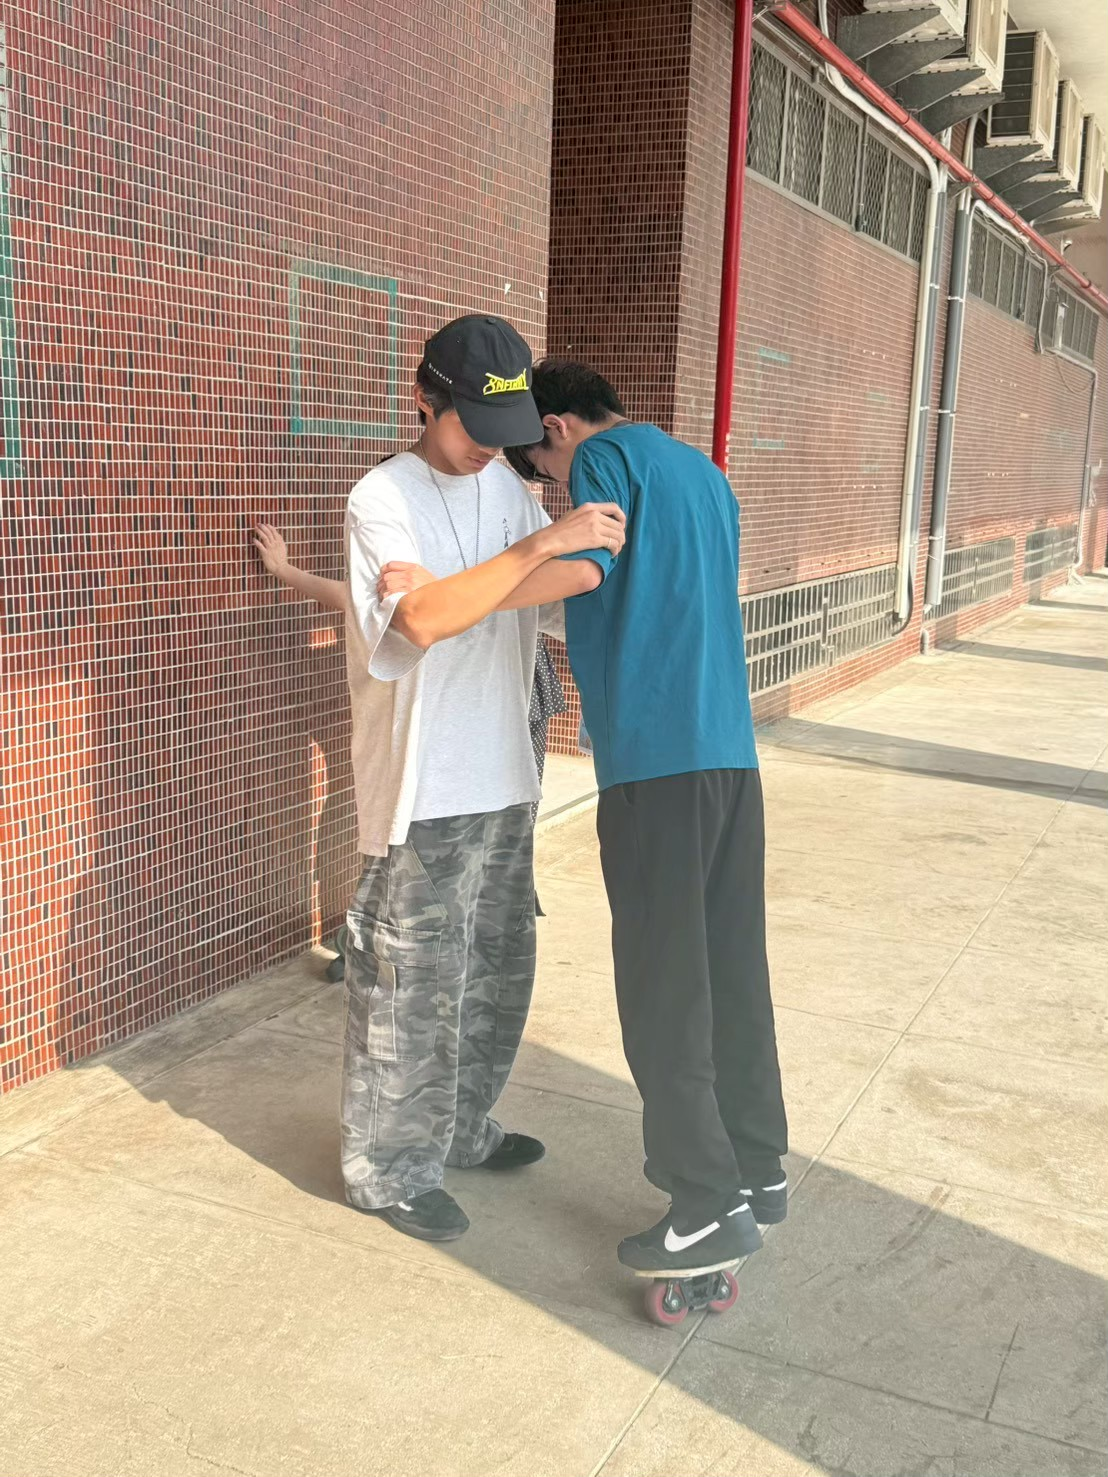
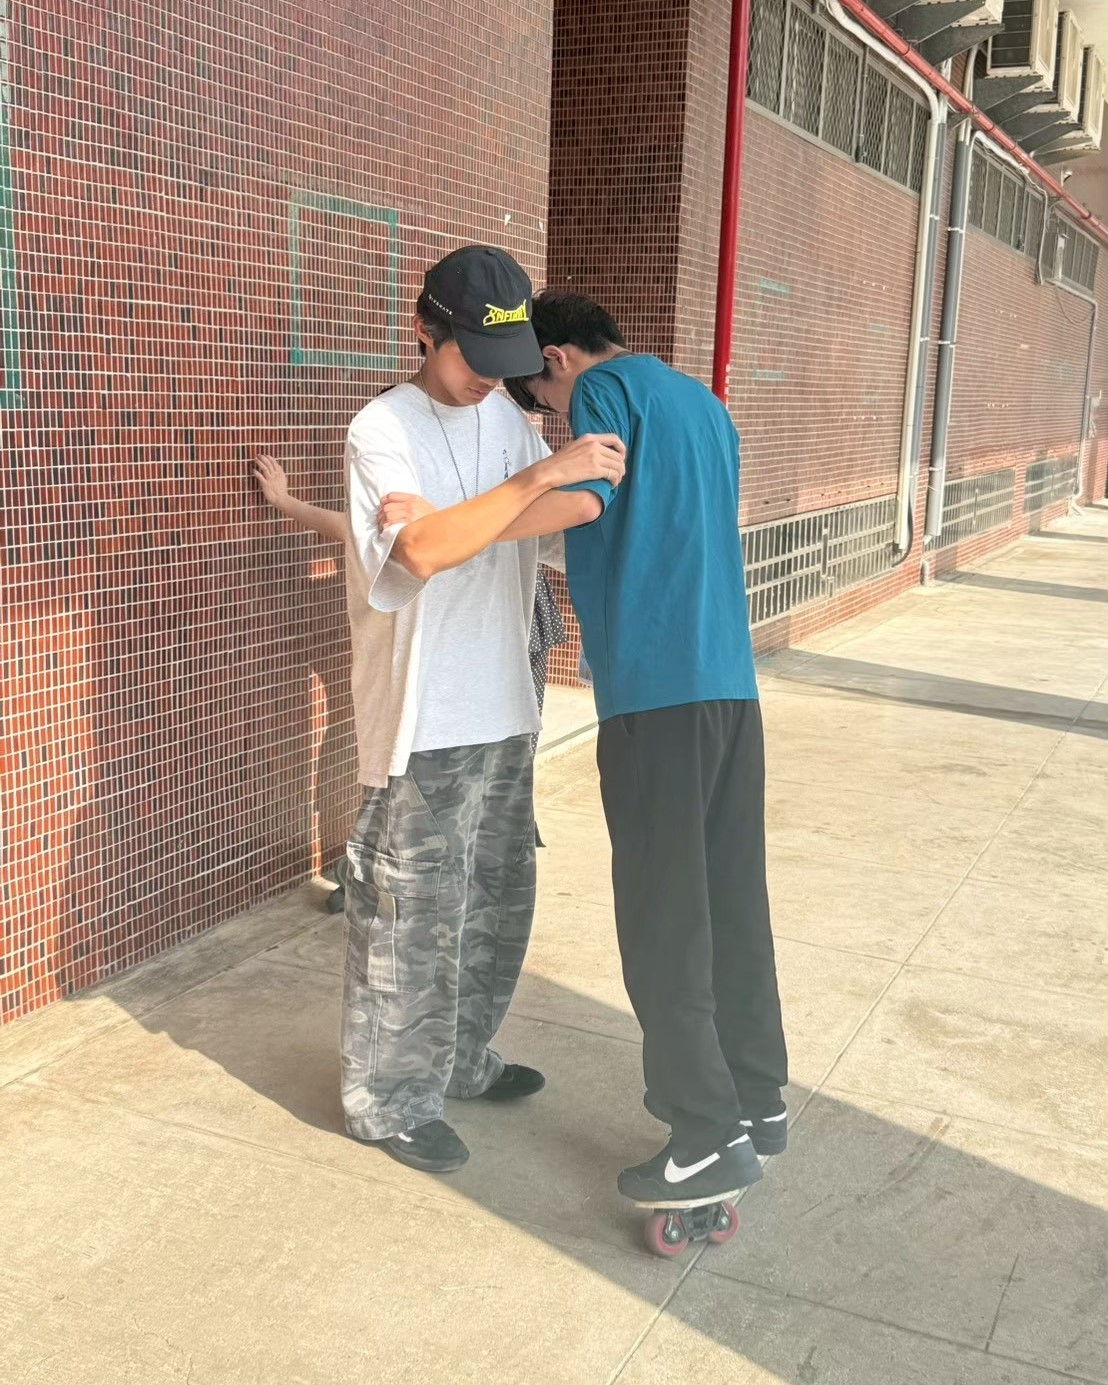
修改home和about電腦css介面完成

diff --git a/index.html b/index.html
@@ -20,7 +20,6 @@
             <nav>
 
                 <a href="#home">首頁</a>
-                <a href="#freeskates">飄移板介紹</a>
                 <a href="#about">關於我</a>
                 <a href="#courses">課程介紹</a>
                 <a href="#price">課程價格</a>
@@ -34,44 +33,58 @@
         <main>
 
             <section id="home">
- 
-                <h1>台中|嘉義專業飄移板教學</h1>
+                <div class="hero">
+                    <div class="hero-text">
+                        <h1>台中|嘉義專業飄移板教學</h1>
+                        <p>引領你踏進最自由的世界</p>
+                        </div>
+                        
+                    
+                            <div class="hero-images">
+                                <img src="images/meStreet.jpg"
+                                alt="街區飄移板"
+                                width="480"
+                                height="600"
+                                >
+                                <img src="images/teaching2.jpg"
+                                alt="講解飄移板中"
+                                width="480"
+                                height="600"
+                                >
 
-                <p>帶你進入飄移板自由滑行的世界</p>
+                                <img src="images/teaching1.jpg"
+                                alt="指導學生練習飄移板基礎平衡"
+                                width="480"
+                                height="600"
+                                >
+                            </div>
+                        </div>
+                    </div>
+            </section>
+
             
-                <img src="images/teaching1.jpg"
-                alt="指導學生練習飄移板基礎平衡"
-                width="595"
-                height="842"
-                >
-                <img src="images/teaching2.jpg"
-                alt="向學生介紹飄移板"
-                width="738"
-                height="504"
-                >
-
-            </section>
-
-            <section id="freeskates">
-
-                <h2>飄移板是甚麼？</h2>
-
-                <p>飄移板是一種兩腳分開的板類運動，不僅是最難的輪滑類運動，也是體積最小的板類運動</p>
-            </section>
 
             <section id="about">
 
-                <h2>個人介紹</h2>
-                <img src="images/resume.jpg"
-                alt="個人介紹圖"
-                width="595"
-                height="842"
-                >
-
-                <p>大家好，我是蛋捲！
-                我是 8NFINITY 板隊的成員，
-                希望透過教學讓更多人認識飄移板。</p> 
-
+                <div class="introduceMe">
+                    <div class="introduceMe-image">
+                        <img src="images/resume45.jpg"
+                        alt="個人介紹圖"
+                        width="800"
+                        height="1000"
+                        >
+                    </div>
+                    <div class="introduceMe-text">
+                        <h2>About me</h2>
+                        <h3>大家好，我是蛋捲！</h1>
+                        <p>
+                        我是 8NFINITY 板隊的成員，
+                        致力於推廣飄移板運動。</p>
+                        <p>
+                            不論你是完全沒有經驗的新手，還是想挑戰進階花式的滑手，我都希望能夠透過系統化的教學，幫助你找到滑行的樂趣！
+                        </p>
+                    </div> 
+                </div>
             </section>
 
             <section id="courses">
@@ -147,7 +160,7 @@
 
             <section id="price">
 
-            <h2>價格</h2>
+            <h2></h2>
 
                 <img src="images/price.jpg"
                 alt="price"

diff --git a/style.css b/style.css
@@ -1,34 +1,28 @@
 /* 整個網站 */
-*,
-*::before,
-*::after {
-    box-sizing: border-box;
+*{
+    margin: 0;
+    padding: 0;
 }
 
-main {
-    max-width: 1080px;
-    margin: 0 auto;
-    padding: 0px 20px;
-}
 
 body {
     font-family: Arial, "Microsoft JhengHei", sans-serif;
     background-color: white;
     color: #1e293b;
-    margin: 0 ;
+    
 }
 
 /* 網站導覽列 */
 
 nav {
-    background-color: #eeeeee;
-    padding: 20px;
+    background-color: #f3ecd7;
+    padding: 25px 40px 25px;
 
     display: flex;
     flex-direction: row;
     justify-content: flex-end;
     align-items: center;
-    gap: 22px;
+    gap: 60px;
     flex-wrap: wrap;
 }
 
@@ -37,57 +31,140 @@ nav {
 nav a {
     color: black;
     text-decoration: none;
-    font-size: 16px;
+    font-size: 20px;
+}
+
+nav a:hover {
+    text-decoration: underline;
 }
 
 /* 首頁 */
 
 #home {
-    background-color:white;
+    background-color: white;
     text-align: center;
-    padding: 40px;
+    padding: 0px 0px 0px;
+    margin: 0 0px;
+}
+
+.hero{ 
+    position: relative;
+    height: 100%;
+}
+
+
+.hero-text {
+    position: absolute;
+    z-index: 1;
+    top: 80%;
+    left: 50%;
+
+    transform: translate(-50%, -50%);
+
+    text-align: center;
+    color: white;
+}
+
+.hero-text h1 {
+    color: #f3ecd7;
+    font-size: 56px;
+}
+
+.hero-text p {
+    color: #e4d45f;
+    font-size: 32px;
+    margin-top: 0px;
+}
+
+.hero-images img{
     
+    width: 100%;
+    height: 100%;
+    object-fit: cover;
+    display: block;
+    filter: brightness(0.45);
 }
 
-#home p
-    {
-        font-size: 28px;
-    }
+.hero-images {
+    
+    display: grid;
+    grid-template-columns: repeat(3, minmax(0, 1fr));
+    gap: 0px;
+    width: 100%;
 
-
- /* 飄移板介紹 */
-
-#freeskates{
-    text-align: center;
 }
+
+
+
 
 /* 個人介紹 */
 
 #about{
-    text-align: center;
+    display: flex;
+    align-items: center;
+    padding: 60px 24px;
 }
 
-#about img{
-    width: 100%;
-    max-width: 600px;
-    height: auto;
+.introduceMe {
+    display: flex;
+    flex-direction: row;
+    align-items: center;
+    gap: 45px;
+    width:100%;
+    max-width: 1600px;
     margin: 0 auto;
 }
 
-#about p {
-    max-width: 600px;
+.introduceMe-image {
+    flex: 0 0 45%;
+}
+
+.introduceMe-image img {
+    display: block;
     width: 100%;
-    margin: 24px auto 0;
+    height: auto;
+    border-radius: 25px;
+    border:3px solid #dee9ff;
+}
+
+.introduceMe-text {
+    flex:1;
+    min-width: 0;
+    text-align: left;
+}
+.introduceMe-text h2{
+    
+    color: rgb(10, 10, 10);
+    font-size:48px;
+    margin: 0 0 24px;
+}
+.introduceMe-text h3{
+    
+    color: rgb(10, 10, 10);
+    font-size:36px;
+    margin: 0 0 24px;
+}
+.introduceMe-text p {
+    color: rgb(10, 10, 10);
+    font-size: 28px;
+    line-height: 2;
+    margin: 0;
+    padding: 0;
 }
 
 /* 課程介紹 */
 /* 課程卡片 */
 
 
+#courses h2{
+    text-align: center;
+}
+
 .course-list {
     display: grid;
     grid-template-columns: repeat(2,1fr);
     gap: 20px;
+    padding: 0px 300px;
 }
 
 .course-card:last-child:nth-child(odd){
@@ -95,9 +172,11 @@ nav a {
 }
 
 .course-card {
-    background-color: rgb(240, 240, 240);
-    padding: 20px;
-    border-radius: 16px;
+    background-color: #ffffff;
+    padding: 32px;
+    border-radius: 20px;
+    border:1px solid #e5e7eb;
+    box-shadow: 0 8px 24px rgba(0, 0, 0, 0.06);
     margin-bottom: 0px;
     border-left: 5px solid orange;
 }
@@ -111,32 +190,6 @@ nav a {
 
 /* 聯絡我 */
 
-
-/* 大標題 */
-
-h1 {
-    font-size: 40px;
-    color: #000000;
-}
-
-/* 二級標題 */
-
-h2 {
-    font-size: 28px;
-    color: #000000;
-}
-
-/* 段落 */
-
-p {
-    font-size: 18px;
-    line-height: 1.8;
-}
-
-section {
-    padding: 20px 20px;
-    margin-bottom: 20px;
-}
 
 
 
